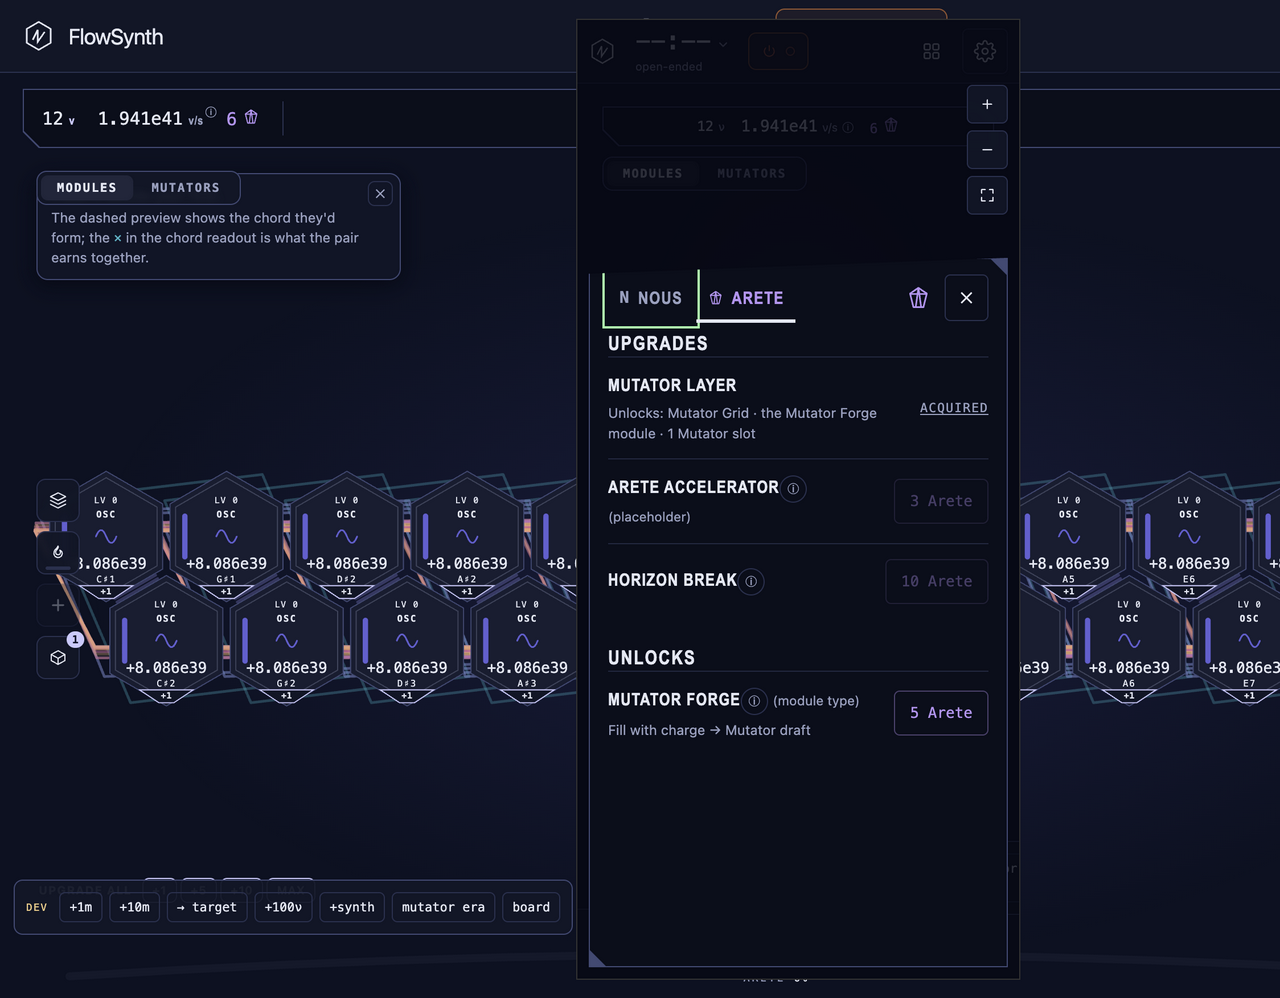
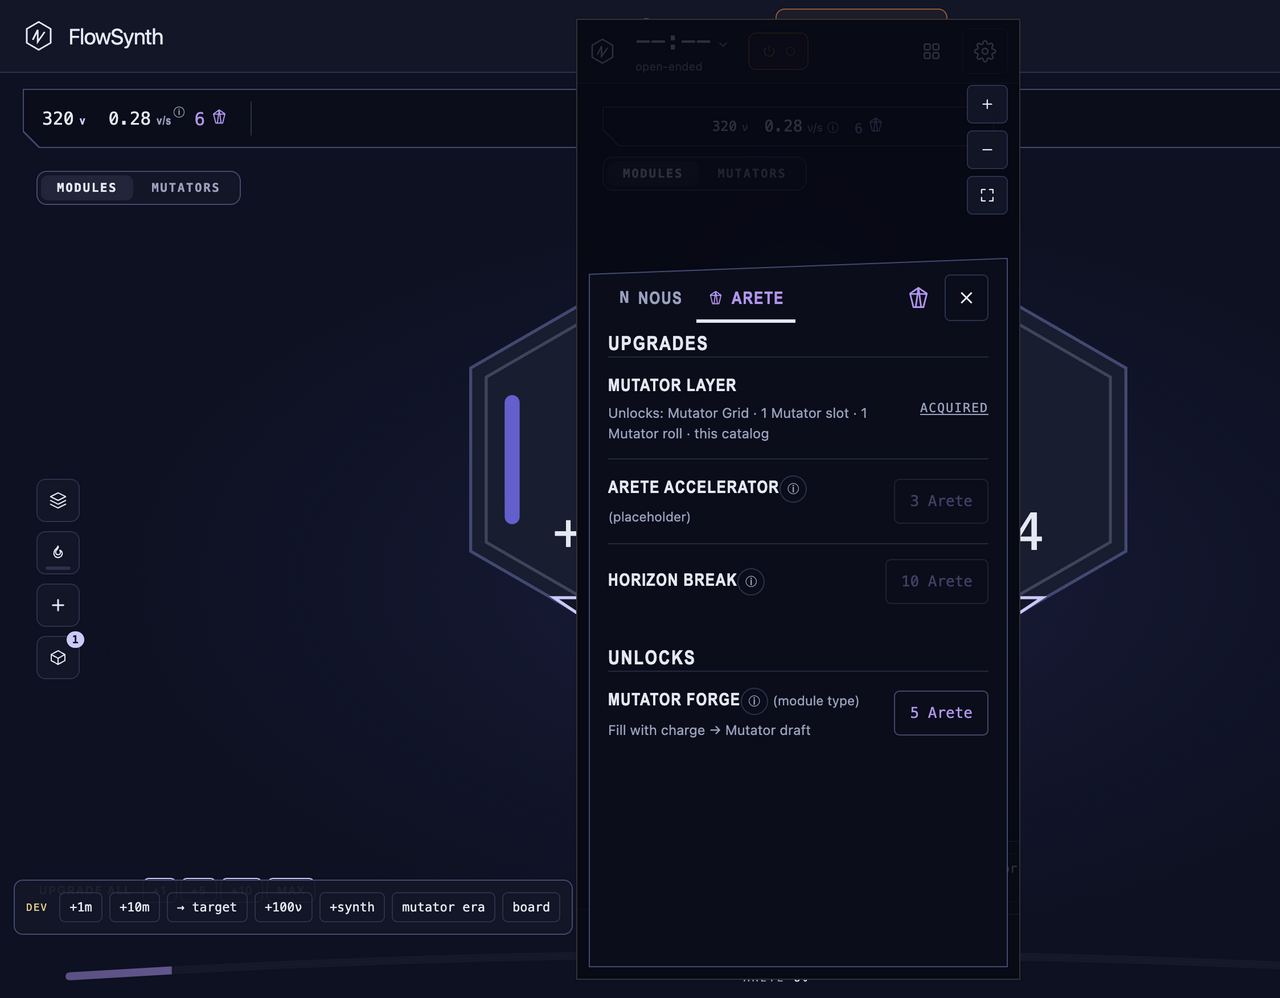
Catalog fixes: phone sheet clip, arete slot tooltip, cell row leaves the sheet
The phone bottom sheet's rim and face now share one clip polygon, so the
mismatched inner corner cuts no longer show the plate through the face in
triangles. The ledger and strip arete telegraph slots read 'Unlocks at
first Arete Reset'. The Board cell row and its section leave the nous
face entirely \xe2\x80\x94 cells arm from the dock's New cell and commit on the
frontier. Evidence refreshed at both widths.

diff --git a/src/ui/app.test.ts b/src/ui/app.test.ts
@@ -2642,10 +2642,13 @@ describe("the catalog", () => {
     expect(app.state.purchased.generator).toBe(true);
   });
 
-  it("the cell row quotes the actual price", () => {
+  it("carries no cell row — cells arm from the dock's New cell, never a sheet row", () => {
     app.openModal("catalog");
-    const cellButton = document.getElementById("buy-cell")!;
-    expect(cellButton.textContent).toContain(`${BALANCE.cellFirstCost} ν`);
+    const modal = document.getElementById("modal-content")!;
+    expect(document.getElementById("buy-cell")).toBeNull();
+    expect(modal.textContent).not.toContain("Board cell");
+    expect(modal.textContent).not.toContain("Cells");
+    expect(modal.textContent).not.toContain("Each purchase raises the next price.");
   });
 
   it("omits the activation section while the ladder rests empty — no telegraph, no pricing", () => {
@@ -2720,8 +2723,8 @@ describe("the catalog door (issue #271)", () => {
     const areteTab = document.querySelector<HTMLButtonElement>('[data-catalog-face="arete"]')!;
     expect(areteTab.disabled).toBe(true);
     expect(areteTab.title).toContain("prestige");
-    // The nous face is the shop.
-    expect(document.getElementById("buy-cell")).not.toBeNull();
+    // The nous face is the shop: the shelf's offers stand.
+    expect(document.querySelector('[data-buy="generator"]')).not.toBeNull();
   });
 
   it("the shop appears at the first banked Arete, and the door remembers the last face", () => {
@@ -2735,7 +2738,7 @@ describe("the catalog door (issue #271)", () => {
     // The memory holds: the door opens on the arete face. (The mode-wins
     // override lands with the mode-unification ticket, #246.)
     expect(app.ui.catalogFace).toBe("arete");
-    expect(document.getElementById("buy-cell")).toBeNull();
+    expect(document.querySelector('[data-buy="generator"]')).toBeNull();
   });
 
   it("pre-entry the arete face is the single centered lock screen; the purchase reveals Upgrades and Unlocks", () => {
@@ -2819,7 +2822,6 @@ describe("the catalog door (issue #271)", () => {
     switchFace("nous");
     const shelfButton = document.querySelector<HTMLButtonElement>('[data-buy="generator"]')!;
     expect(shelfButton.disabled).toBe(true);
-    expect((document.getElementById("buy-cell") as HTMLButtonElement).disabled).toBe(true);
   });
 
   it("prices mute in flow: the lock screen's entry stands inert with the between-sessions note", () => {
@@ -2864,13 +2866,16 @@ describe("the Arete Catalog (issue #197)", () => {
     expect(document.getElementById("arete-read")).toBeNull();
     expect(document.querySelector('#board-ledger [data-live="arete"]')).toBeNull();
     expect(document.getElementById("info-arete")).toBeNull();
-    // The slot is unconditional: `— ◇`, dim, on both faces of the ledger.
+    // The slot is unconditional: `— ◇`, dim, on both faces of the ledger,
+    // and its tooltip names the lock it teaches.
     const ledgerSlot = document.querySelector("#board-ledger .ledger-arete")!;
     expect(ledgerSlot.classList.contains("arete-dim")).toBe(true);
+    expect(ledgerSlot.getAttribute("title")).toBe("Unlocks at first Arete Reset");
     expect(ledgerSlot.querySelector("b")!.textContent).toBe("—");
     expect(ledgerSlot.querySelector(".arete-mark svg")).not.toBeNull();
     const stripSlot = document.querySelector("#game-info-strip .info-arete")!;
     expect(stripSlot.classList.contains("arete-dim")).toBe(true);
+    expect(stripSlot.getAttribute("title")).toBe("Unlocks at first Arete Reset");
     expect(stripSlot.querySelector("b")!.textContent).toBe("—");
     // Even with the board grown to the unlock boundary and add-cell mode
     // armed, the banner never renders — the lock is the prestige count

diff --git a/src/ui/render.ts b/src/ui/render.ts
@@ -3481,7 +3481,6 @@ function renderCatalogModal(app: App, content: HTMLElement): void {
       app.buyShelf(button.getAttribute("data-buy") as keyof typeof BALANCE.shelfPrices);
     });
   });
-  byId("buy-cell")?.addEventListener("click", () => app.armCellPurchase());
   byId("buy-arete-entry")?.addEventListener("click", () => app.buyCatalogEntryAction());
   byId("buy-arete-pool")?.addEventListener("click", () => app.joinRollPoolAction());
   byId("buy-arete-break")?.addEventListener("click", () => app.breakHorizonAction());
@@ -3520,8 +3519,10 @@ function catalogPriceHtml(options: {
   }</span>`;
 }
 
-// The nous face: the starter shelf while offers stand, the permanent cell
-// row, and the acquired shelf behind its toggle.
+// The nous face: the starter shelf while offers stand, and the acquired
+// shelf behind its toggle. Cells are not a sheet row — the purchase arms
+// from the dock's New cell and commits on the board's frontier, where the
+// price lives.
 function catalogNousFaceHtml(app: App): string {
   const { state, ui } = app;
   const upgrade = state.mode === "upgrade";
@@ -3536,10 +3537,6 @@ function catalogNousFaceHtml(app: App): string {
   // path. The section returns with the ladder's first tenant, priced by
   // that tenant's effort; the rung markup is not preserved here.
 
-  // Cells (ADR-0013): the permanent catalog row. The price is not quoted
-  // abstractly — it is the frontier's next price, armed where it commits.
-  const cellPrice = cellCost(state.cellsBought);
-  const cellCountdown = upgrade ? upgradeCountdown(app, cellPrice) : null;
   const shelfRows = openShelf
     .map((type) => {
       const price = BALANCE.shelfPrices[type];
@@ -3568,20 +3565,6 @@ function catalogNousFaceHtml(app: App): string {
           </section>`
         : `<p class="empty-copy">The shelf is empty.</p>`
     }
-    <section>
-      <h2 class="t-condensed">Cells</h2>
-      <div class="catalog-rows">
-        <article class="catalog-row">
-          <div><h3 class="t-condensed">Board cell</h3><p class="t-note">Empty hexes to place modules on — the frontier prices the next one.</p></div>
-          ${catalogPriceHtml({
-            attrs: `id="buy-cell" title="${upgrade ? (wholeNous(state) >= cellPrice ? "Arm the purchase — pick a frontier hex on the board" : "Not enough nous") : "Purchases happen between sessions"}"`,
-            price: cellPrice,
-            affordable: upgrade && wholeNous(state) >= cellPrice,
-            countdown: cellCountdown,
-          })}        </article>
-      </div>
-      <p class="catalog-note t-note">Each purchase raises the next price.</p>
-    </section>
   </div>
   <label class="catalog-toggle"><input type="checkbox" id="catalog-show-acquired" ${ui.showAcquired ? "checked" : ""}/> Show acquired (${ownedShelf.length}/${shelfTypes.length})</label>
   ${

diff --git a/src/ui/style.css b/src/ui/style.css
@@ -2736,16 +2736,22 @@ select { background: var(--panel); color: var(--ink); border: 1px solid var(--li
 }
 .entry-buy .mono { font-size: 14px; text-transform: none; letter-spacing: 0.02em; }
 .entry-buy:hover:not(:disabled) { background: var(--arete-faint); border-color: var(--arete); }
-/* Phone: the frame becomes the 74%-height bottom sheet, top corners the
-   only clipped pair (the bottom edge meets the screen). The viewport media
-   query alone carries it — every modal sheets on phone (the .sheet class
-   is the rate gate's, below the 760px container line). */
+/* Phone: the frame becomes the 74%-height bottom sheet whose top edge
+   rises to the right (the prototype's sheet silhouette; the bottom edge
+   meets the screen square). Rim and face wear the SAME polygon — a
+   mismatched inner clip would show the plate through the face in corner
+   triangles. The viewport media query alone carries it — every modal
+   sheets on phone (the .sheet class is the rate gate's, below the 760px
+   container line). */
 @media (max-width: 600px) {
+  .modal.catalog-modal,
+  .catalog-frame {
+    clip-path: polygon(0 14px, 100% 0, 100% 100%, 0 100%);
+  }
   .modal.catalog-modal {
     height: 74vh;
     max-height: none;
     border-radius: 0;
-    clip-path: polygon(0 14px, 100% 0, 100% 100%, 0 100%);
   }
   .catalog-frame { padding: 12px 16px 16px; }
   .catalog-row { gap: 10px; }

diff --git a/src/ui/ledger.ts b/src/ui/ledger.ts
@@ -356,7 +356,7 @@ function areteTelegraphHtml(): string {
 
 export function areteLedgerHtml(state: GameState): string {
   if (!catalogOpen(state)) {
-    return `<span class="ledger-fig ledger-arete arete-dim" title="Arete — banked by prestige">${areteTelegraphHtml()}</span>`;
+    return `<span class="ledger-fig ledger-arete arete-dim" title="Unlocks at first Arete Reset">${areteTelegraphHtml()}</span>`;
   }
   return `<span class="ledger-fig ledger-arete" title="Arete — banked by prestige; spent in the catalog"><b class="mono" data-live="arete"></b><small class="arete-mark" aria-hidden="true">${ARETE_SVG}</small></span>`;
 }
@@ -467,7 +467,7 @@ export function renderGameInfoStrip(app: App, snapshot: RateSnapshot): void {
       ${
         catalogOpen(state)
           ? `<span class="info-read info-arete" title="Arete — banked by prestige; spent in the catalog"><b class="mono" data-live="i-arete"></b><small class="arete-mark" aria-hidden="true">${ARETE_SVG}</small></span>`
-          : `<span class="info-read info-arete arete-dim" title="Arete — banked by prestige">${areteTelegraphHtml()}</span>`
+          : `<span class="info-read info-arete arete-dim" title="Unlocks at first Arete Reset">${areteTelegraphHtml()}</span>`
       }</div>`;
     document.getElementById("info-rate")?.addEventListener("click", () => app.openModal("rate"));
   }

diff --git a/CONTEXT.md b/CONTEXT.md
@@ -220,7 +220,7 @@ _Avoid_: practice meter, practice forge, flow forge, third branch
 A choice of one mutator from two generated candidates, delivered to the Mutator tray; unchosen candidates disappear without consolation resources. Every roll is charge-earned except the first, which the Mutator tree's entry purchase itself performs.
 
 **Catalog**:
-The tabbed shop behind the labeled Catalog door on the dock (desktop) and thumb bar (phone): the `ν nous` face carries the starter shelf, cells, and — once the ladder has a tenant — app activations; the `◇ Arete` face is the Arete Catalog. The door opens on the last-used face and falls back to nous before the first prestige (the mode-wins override lands with mode unification). The frame is fixed — a 620×600 clipped panel on desktop, a 74%-height bottom sheet on phone — and a face switch never resizes it: the switch and identity stay pinned while the body scrolls. Purchases act in upgrade mode only; prices mute when unaffordable or in flow. Module upgrades live on module panels, not the catalog (ADR-0018).
+The tabbed shop behind the labeled Catalog door on the dock (desktop) and thumb bar (phone): the `ν nous` face carries the starter shelf and — once the ladder has a tenant — app activations; the `◇ Arete` face is the Arete Catalog. Cells are no sheet row — the purchase arms from the dock's New cell and commits on the board's frontier. The door opens on the last-used face and falls back to nous before the first prestige (the mode-wins override lands with mode unification). The frame is fixed — a 620×600 clipped panel on desktop, a 74%-height bottom sheet on phone — and a face switch never resizes it: the switch and identity stay pinned while the body scrolls. Purchases act in upgrade mode only; prices mute when unaffordable or in flow. Module upgrades live on module panels, not the catalog (ADR-0018).
 
 **Starter shelf**:
 The catalog's one-time guaranteed offers — the Focus Generator, one Booster, and a Module Forge — hidden once acquired. It completes the non-oscillator landscape; oscillators come only from the opening grant and module rolls (ADR-0022).

diff --git a/docs/evidence/pr-271/README.md b/docs/evidence/pr-271/README.md
@@ -18,7 +18,10 @@ banked, entry owned/unowned, illustrative balances.
 - [Desktop arete lock](desktop-arete-lock.png) and
   [phone arete lock](phone-arete-lock.png): pre-entry the arete face is the
   single centered `Unlock Mutator Layer · 1 Arete` lock screen; no
-  Upgrades/Unlocks anywhere. Phone sheet measured 623px ≈ 74vh.
+  Upgrades/Unlocks anywhere. The phone sheet presents at 74vh (measured 623px
+  ≈ 74% of the 842px frame) with its top edge rising to the right — rim and
+  face share one clip polygon, so no plate shows through in corner
+  triangles and the edges run clean.
 - [Desktop arete entered](desktop-arete-entered.png) and
   [phone arete entered](phone-arete-entered.png): the purchase reveals
   Upgrades (entry ACQUIRED with its rewards line, the inert Accelerator
